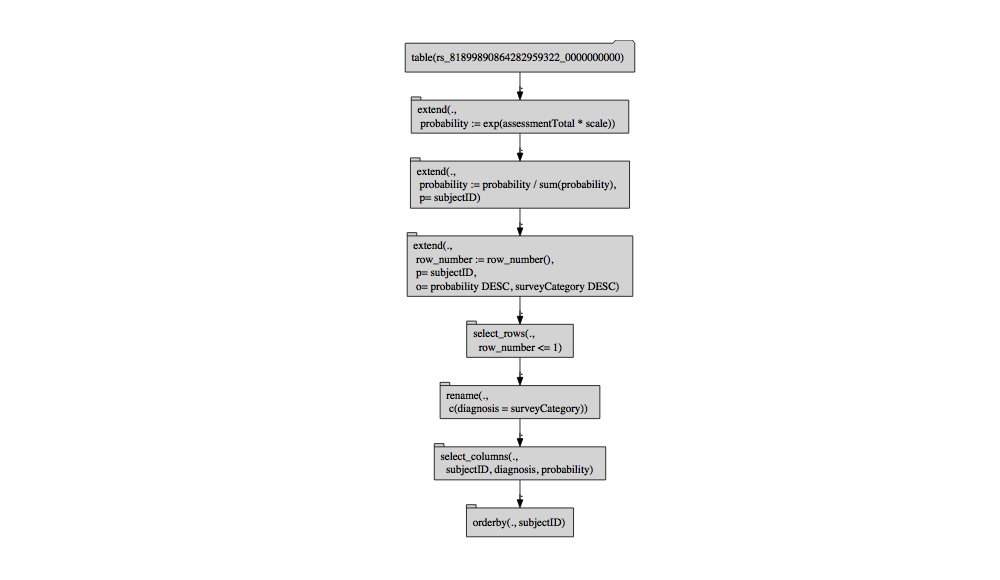
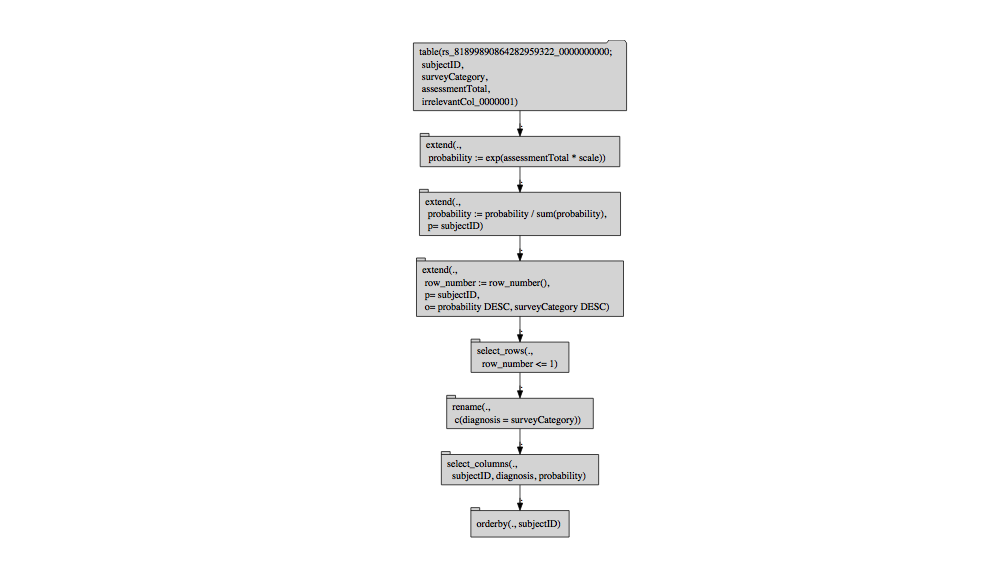
adapt to new fn names and re-run

Changed region(s): [[0.403, 0.0621, 0.651, 0.8379], [0.465, 0.869, 0.589, 0.931]]

diff --git a/extras/SparkR.md b/extras/SparkR.md
@@ -15,7 +15,7 @@ library("rquery")
 print(db_hdl)
 ```
 
-    ## [1] "rquery_db_info(is_dbi=FALSE, SparkR, <environment: 0x7f9f9b489340>)"
+    ## [1] "rquery_db_info(is_dbi=FALSE, SparkR, <environment: 0x7ff37e860318>)"
 
 ``` r
 print(test_df)
@@ -29,7 +29,7 @@ d_hdl <- sparkr_table(db_hdl, test_df)
 print(d_hdl)
 ```
 
-    ## [1] "table('rs_81899890864282959322_0000000000')"
+    ## [1] "table('rs_81899890864282959322_0000000000'; subjectID, surveyCategory, assessmentTotal, irrelevantCol_0000001)"
 
 ``` r
 print(column_names(d_hdl))
